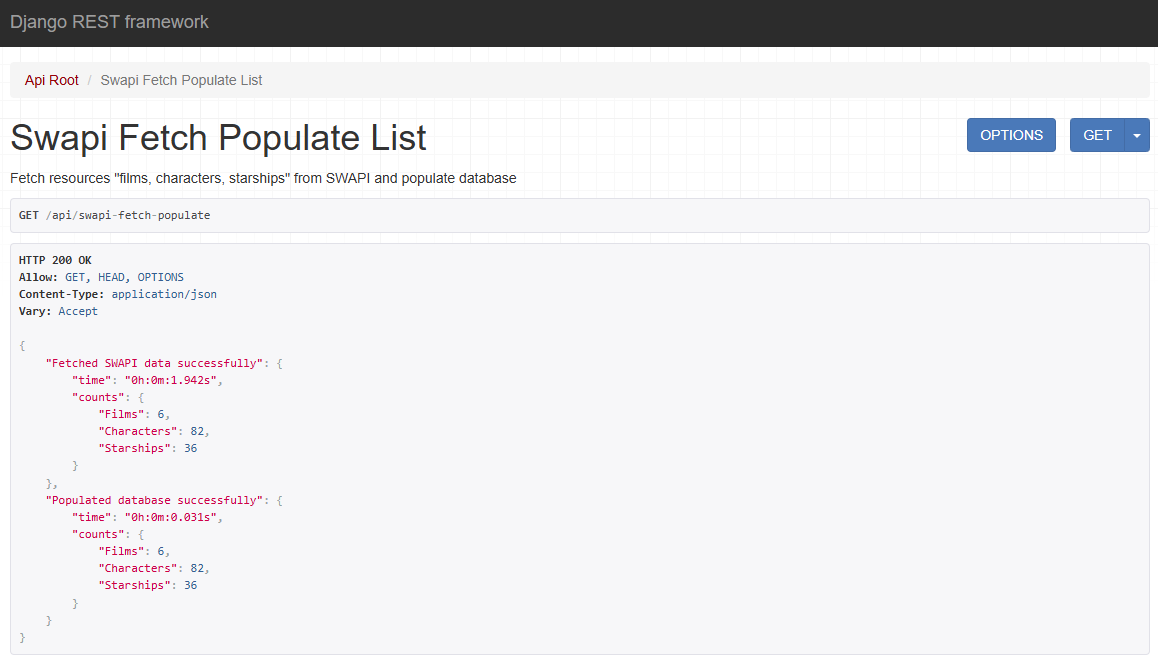
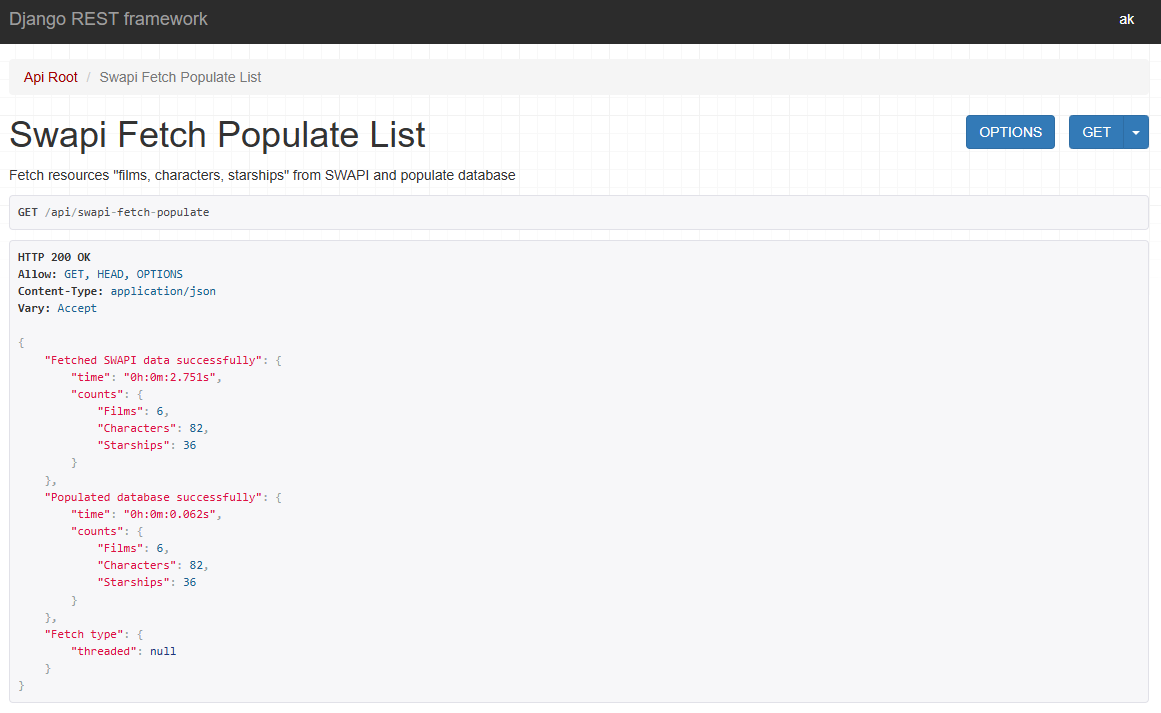
Update resources and README

Changed region(s): [[0.0, 0.0, 1.0, 0.9394], [0.8083, 0.1515, 0.9948, 0.2424], [0.9637, 0.0, 0.9948, 0.0303]]

diff --git a/README.md b/README.md
@@ -72,6 +72,9 @@
 #### SWAPI Fetch Populate Success
 <p><img src="./resources/swapi-fetch-populate-success.png" alt="SWAPI Fetch Populate Success" width="800"/></p>
 
+#### SWAPI Fetch Populate (Threaded) Success
+<p><img src="./resources/swapi-fetch-populate-threaded-success.png" alt="SWAPI Fetch Populate (Threaded) Success" width="800"/></p>
+
 #### SWAPI Fetch Populate Validation Errors
 <p><img src="./resources/swapi-fetch-populate-validation-errors.png" alt="SWAPI Fetch Populate Validation Errors" width="800"/></p>
 
